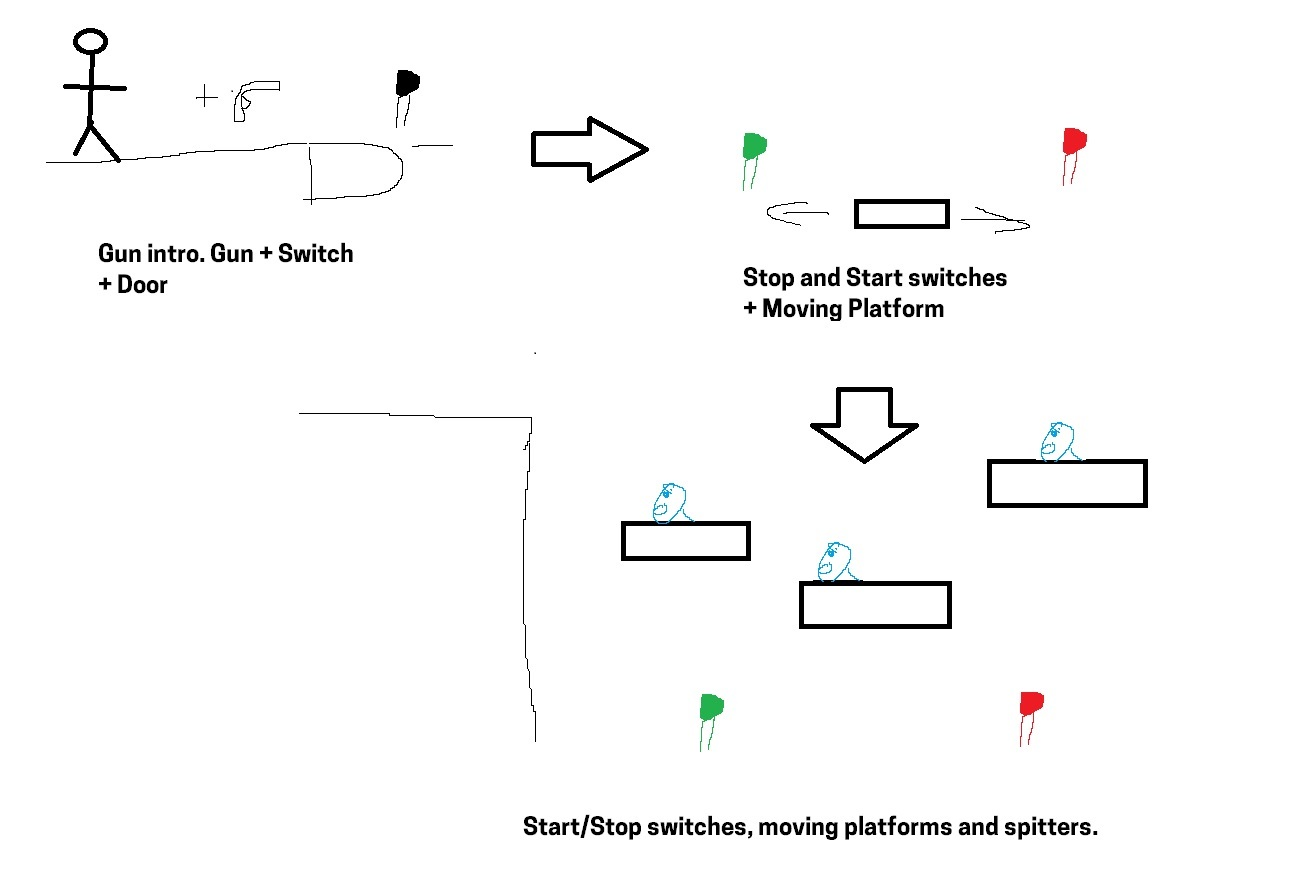
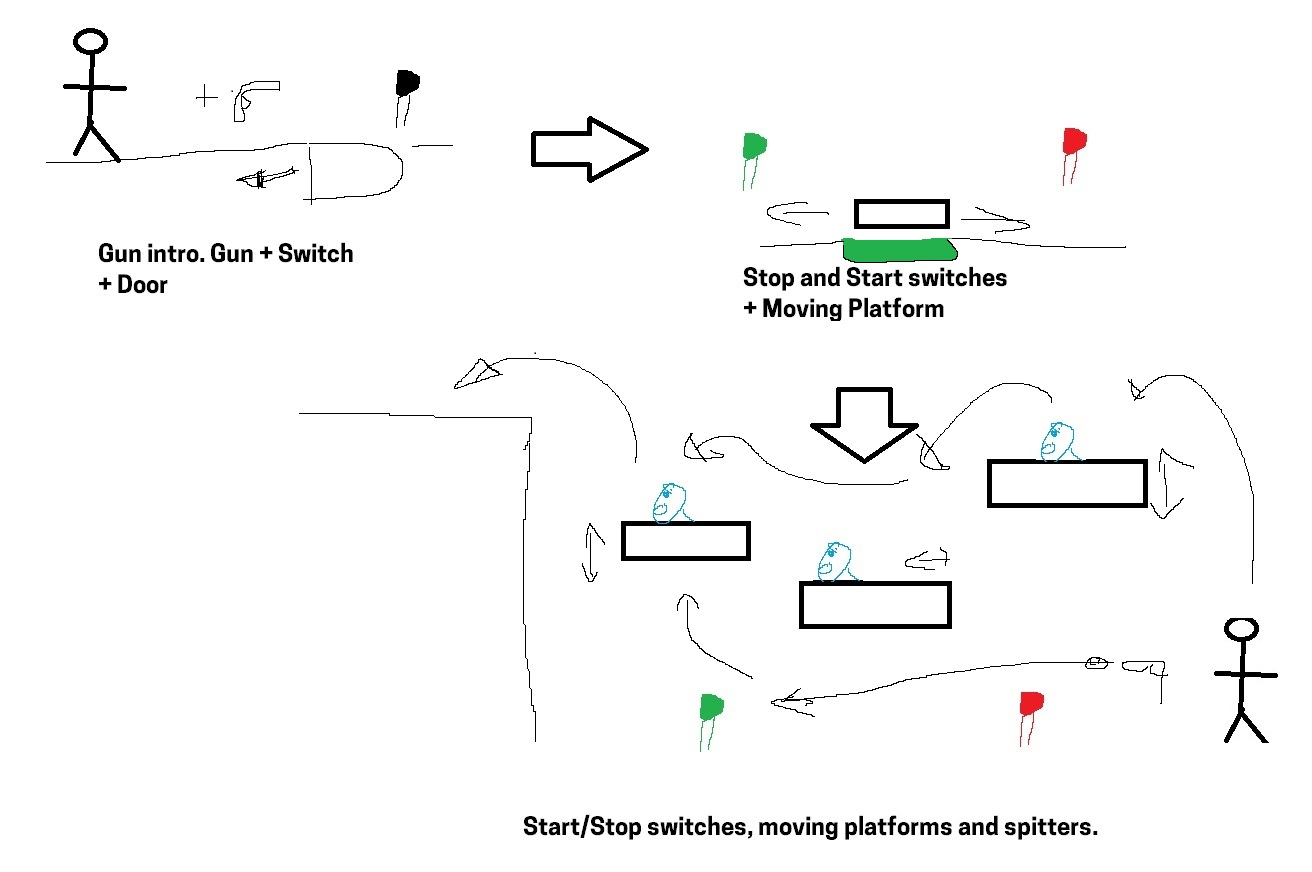
secondlastpush
aaaa

diff --git a/README.md b/README.md
@@ -10,57 +10,68 @@ Your document must include images. To insert an image into your documentation, p
 
 
 
-## 1. Player Experience (~700 words)
-TESTTEST
-Outline and justify how your level design facilitates the core player experience goals outlined in the assignment spec. Each section should be supported by specific examples and screenshots of your game encounters that highlight design choices made to facilitate that particular experience.
+## 1. Player Experience
 
 ### 1.1. Discovery
-What does the player learn? How does your encounter and broader level design facilitate learning in a way that follows good design practice?
+The key to facilitating the player's experience of discovery can be found in the level’s learning progression. This platforming level I have created utilizes this progressive quality, where mechanics are slowly introduced and extrapolated throughout the gameplay. Often, new mechanics (such as the acid in section 1 or the gun in section 3) are introduced in a “safe” and simple environment, where the player can discover their usability without large amounts of tension and when the game’s challenge is at its lowest. New properties, emergent strategies, and unique interactions between mechanics are then progressively introduced throughout the level, furthering the discovery experience for the player. An example of this can be seen with breakable objects alongside the moveable objects with their damaging quality, being able to be pushed but also dropped on enemies to beat them. An introduction of a mechanic is typically followed up by the continuation of an old one in conjunction with this new mechanic. This is repeated cyclically, keeping the player in a state of flow. Important “aha” moments can be found with the “start and stop” functions of switches alongside moving platforms and their interaction with bullets, or pushing moveable objects into acid to use as a platform. Through this, the player learns the integral skills needed for the level’s completion; physical and intellectual ones. This use of mechanic progression and interweaving creates an environment for the player that is an interesting one, creating complex systems and facilitating good game design.
+
+
 
 ### 1.2. Drama
-What is the intensity curve? How does your design facilitate increasing yet modulating intensity, with moments of tension and relief? 
+The drama of the game is achieved through a state of being called “flow”, described as a “holistic sensation when we act with total involvement” (Csikszentmihalyi, M. 2014). Within games, this is gained through a design principle known as a “difficulty curve”, a finely tuned pathway where the players experience dances between anxiety and boredom through modulated increases in difficulty (Edmond, C, 2024 “Challenge & Drama”). Within each section of the level, there are varying degrees of challenge, and therefore drama, that the player will experience cyclically. Section one showcases these degrees expertly, with the introduction of mechanics within safe environments such as acid, spikes, moving platforms, and moveable blocks, the joint usage of these mechanics for the middling levels of drama, followed by the peak of the sections challenge, where a moving platform serves as a pseudo-time limit, directing the player into spikes and acid, forcing the player to rely on the skills they have gained to conquer the toughest part of the level. This slow ramping of danger followed by the introduction of a new section puts the player in a flow state, achieving the game's intended drama.
 
 ### 1.3. Challenge
-What are the main challenges? How have you designed and balanced these challenges to control the difficulty curve and keep the player in the flow channel?
+The level specifically challenges the player through physical and intellectual challenges. This can be seen throughout the level through jumping puzzles, timed shots to open doors or stop moving platforms, quick reflexes to avoid falling obstacles, or even through puzzle-based challenges, such as closing doors to push objects into designated areas. Through the use of mechanic iteration, the player is kept within the flow state, gaining the skills necessary to complete the sections and the level as a whole. The sections were designed with separate skills necessary for completion. The first section lacks enemies but offers low-level intellectual challenges and a medium degree of physical challenge. This is supposed to be the initial building block for the level, where section two focuses on physical difficulty, where the player is given a staff and is placed against enemies, and section three focuses primarily on intellectual difficulty, where the player is given the gun, a tool that can shoot enemies but also activate switches far away to move, stop and reset platforms. The differentiation between the three sections allows for the slow progression of the player's skills, not overwhelming the player while keeping them within a state of flow.
 
 ### 1.4. Exploration
-How does your level design facilitate autonomy and invite the player to explore? How do your aesthetic and layout choices create distinct and memorable spaces and/or places?
+The level’s experience of exploration can be found within all three sections. Initially, the player spawns in and can see to their left, a locked door. This offers a level of intrigue within the player, and serves in the future as a link back to the beginning, in case the player discovers alternate routes between the sections found in sections two and three. Moving platforms uncovering new territory also gives off the experience of exploration, and most importantly, the level's design allows for non-linearity within its gameplay, providing the biggest blessing to the level's sense of exploration. In section one, this can be seen with the initial moving platform and moveable block. The player can move the block onto the platform, allowing them to jump to the final area of section one. They can backtrack the intended movements, finding the key, and skipping a majority of the first section. Section two offers the ability to also use a moving platform alongside a pressure pad and a moveable object, opening a door that leads to the beginning of section three. If this occurs, section three leads to the beginning of section one, allowing the player to complete section two and find the key for that level. This level of non-linear progression creates a sense of exploration within the player.
 
-## 2. Core Gameplay (~400 words)
-A section on Core Gameplay, where storyboards are used to outline how you introduce the player to each of the required gameplay elements in the first section of the game. Storyboards should follow the format provided in lectures.
+## 2. Core Gameplay
+### 2.1 Acid
+Acid is introduced initially, and forces the player to consider their jump ability. Acid is used to force a respawn, as opposed to spikes that are later introduced. Acid’s intended response from the player should make them feel like their actions matter, as they suffer a respawn from its effects. It can be seen bordering off certain parts of the sections, such as the platform drop sequence in section three, or the moving platform ending in section one.
 
-Storyboards can be combined when multiple mechanics are introduced within a single encounter. Each section should include a sentence or two to briefly justify why you chose to introduce the mechanic/s to the player in that sequence.
+### 2.2 Moving Platforms
+Moving platforms are introduced as a traveling system, however are extrapolated quickly as a mechanic of physical difficulty. Initially, they direct you to the next challenge, however are quickly turned into the level’s version of a pseudo time limit, forcing the player to act with speed, pushing their physical skills.
 
-You should restructure the headings below to match the order they appear in your level.
+### 2.3 Checkpoints
+Checkpoints serve as a bastion of relief for the player. They are sprinkled throughout the area, often after difficult encounters or lengthy ones. The first checkpoint is introduced after the second acid jump with the moveable object. This could serve as a minor point of difficulty for newer players, but it would take a while to replay, justifying its inclusion.
 
-### 2.1. Acid
+### 2.4 Moveable objects
+Moveable objects are introduced as a puzzle element, allowing the player to place them in strategic positions, elevating or elongating their jumps. They are later used offensively, launched at the player, damaging them. This also works against enemies, which is used in section two.
 
-### 2.2. Checkpoints
+### 2.5 Door/Switch
+Doors are initialized as blockades for the player. They stop the player's movement or, in its initial environment, the movement of a moveable object. The switch typically opens doors, but this can also be seen with the use of a pressure pad in section two. Switches can also alter the movements of platforms, as seen in section three.
 
-### 2.3. Chompers
+### 2.6 Spikes
+Spikes offer a spatial challenge for the player. They often limit jumps and movement. In the first iteration of spikes, they stop the player from jumping to the next section, making them push an object to reach those heights.
 
-### 2.4. Health Pickups
+### 2.7 Health Pickups
+Health pickups are given after intense moments, such as its introduction at the end of section one. They give the player release, lowering their anxiety levels, and keeping them in a state of flow. They also serve as a reward in section two, where the player can opt to complete an optional area for health rewards.
 
-### 2.5. Keys
+### 2.8 Keys
+Keys are necessary to complete the level and give the player a sense of accomplishment. It is given at the end of each section.
 
-### 2.6. Moving Platforms
+### 2.9 Chompers
+Chompers are initially given to the player when they have no weapon and are used throughout the game as a zoning enemy, creating a challenge by giving the player space to work with. An example of that can be seen at the end of section two.
 
-### 2.7. Passthrough Platforms
+### 2.10 Spitters
+Spitters are the majority of the enemies found within this level. They give the player a physical challenge, where they often have to dodge out of the way of their projectiles, nimbly getting to their position. They are often used with moving platforms, seen throughout sections two and three, where the player's movements are limited.
 
-### 2.8. Spikes
+### 2.11 Staff Pickup
+The staff is used to break breakable objects and destroy chompers and spitters. This is often used in conjunction with moveable objects.
 
-### 2.9. Spitters
+### 2.12 Breakable Objects
+These are used to blockade the player or to position enemies higher up. Also used to put moveable objects out of reach.
 
-### 2.10. Weapon Pickup (Gun)
+### 2.13 Pressure Pad
+These are used initially to serve as a puzzle for opening doors. They serve this purpose throughout the game
 
-### 2.11. Weapon Pickup (Staff)
+### 2.14 Gun
+The gun is introduced in section three, primarily as a tool and secondarily as a weapon. It is used alongside the switch, turning them on from far away. This can move platforms from afar.
+
 
 ## 3. Spatiotemporal Design
-A section on Spatiotemporal Design, which includes your molecule diagram and annotated level maps (one for each main section of your level). These diagrams may be made digitally or by hand, but must not be created from screenshots of your game. The annotated level maps should show the structure you intend to build, included game elements, and the path the player is expected to take through the level. Examples of these diagrams are included in the level design lectures.
 
-No additional words are necessary for this section (any words should only be within your images/diagrams).
-
- 
 ### 3.1. Molecule Diagram
 ![Molecule Diagram](DocImages/2150Molecule.JPG)
 
@@ -73,29 +84,9 @@ No additional words are necessary for this section (any words should only be wit
 ### 3.4.	Level Map – Section 3
 ![Section 3 Level Map](DocImages/2150Section3.jpg)
 
-## 4. Iterative Design (~400 words)
-Reflect on how iterative design helped to improve your level. Additional prototypes and design artefacts should be included to demonstrate that you followed an iterative design process (e.g. pictures of paper prototypes, early grey-boxed maps, additional storyboards of later gameplay sequences, etc.). You can also use this section to justify design changes made in Unity after you drew your level design maps shown in section 3. 
+## 4. Iterative Design
 
-You should conclude by highlighting a specific example of an encounter, or another aspect of your level design, that could be improved through further iterative design.
+Iterative design was integral to the success of my level. Using playtesting, storyboarding, and molecule diagrams allowed me to design an environment where the player could learn the game’s mechanics progressively without overloading. Initially, my first section contained the introduction of enemies. I used enemies as an unbeatable obstacle, one where you would have to outrun it. The intention was to provide a sense of achievement upon grabbing the staff and being able to beat this once unbeatable obstacle. This did not pan out, I found the challenge minimal and boring. I also found that my intended outcomes for the level did not include large amounts of enemies, in particular chompers. While their inclusion is purposeful, their use in section two being one of particular importance, the game overall does not promote large combat elements. I pushed away from chompers and moved towards spitters, which could double as a “sentry” and area-denial mechanic. The spitters served this purpose well, however even those enemies I found to be troublesome, their projectiles would enter areas that should not include them. Throughout the level, the specific spitter's field of view has been altered. I think this is a band-aid solution, one that could be fixed through more iterations. Section three could also have used more iterations. The puzzle nature of the level has not been fulfilled, I think through more iterations I could have extrapolated more on the stop-and-start mechanics. 
 
-## Generative AI Use Acknowledgement
-
-Use the below table to indicate any Generative AI or writing assistance tools used in creating your document. Please be honest and thorough in your reporting, as this will allow us to give you the marks you have earnt. Place any drafts or other evidence inside this repository. This form and related evidence do not count to your word count.
-An example has been included. Please replace this with any actual tools, and add more as necessary.
-
-
-### Tool Used: ChatGPT
-**Nature of Use** Finding relevant design theory.
-
-**Evidence Attached?** Screenshot of ChatGPT conversation included in the folder "GenAI" in this repo.
-
-**Additional Notes:** I used ChatGPT to try and find some more relevant design theory that I could apply to my game. After googling them, however, I found most of them were inaccurate, and some didn't exist. One theory mentioned, however, was useful, and I've incorporated it into my work.
-
-### Tool Used: Example
-**Nature of Use** Example Text
-
-**Evidence Attached?** Example Text
-
-**Additional Notes:** Example Text
-
-
+![Storyboarding for Section One](DocImages/storyboardingsection1.png)
+![Storyboarding for Section Two](DocImages/storyboardingsection2.png)
